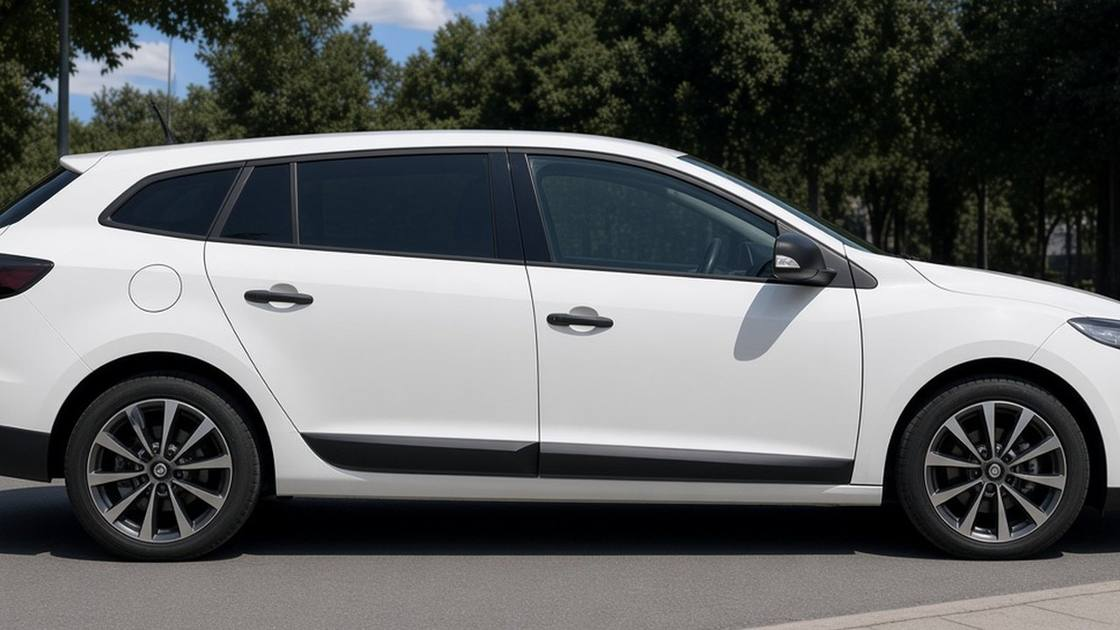
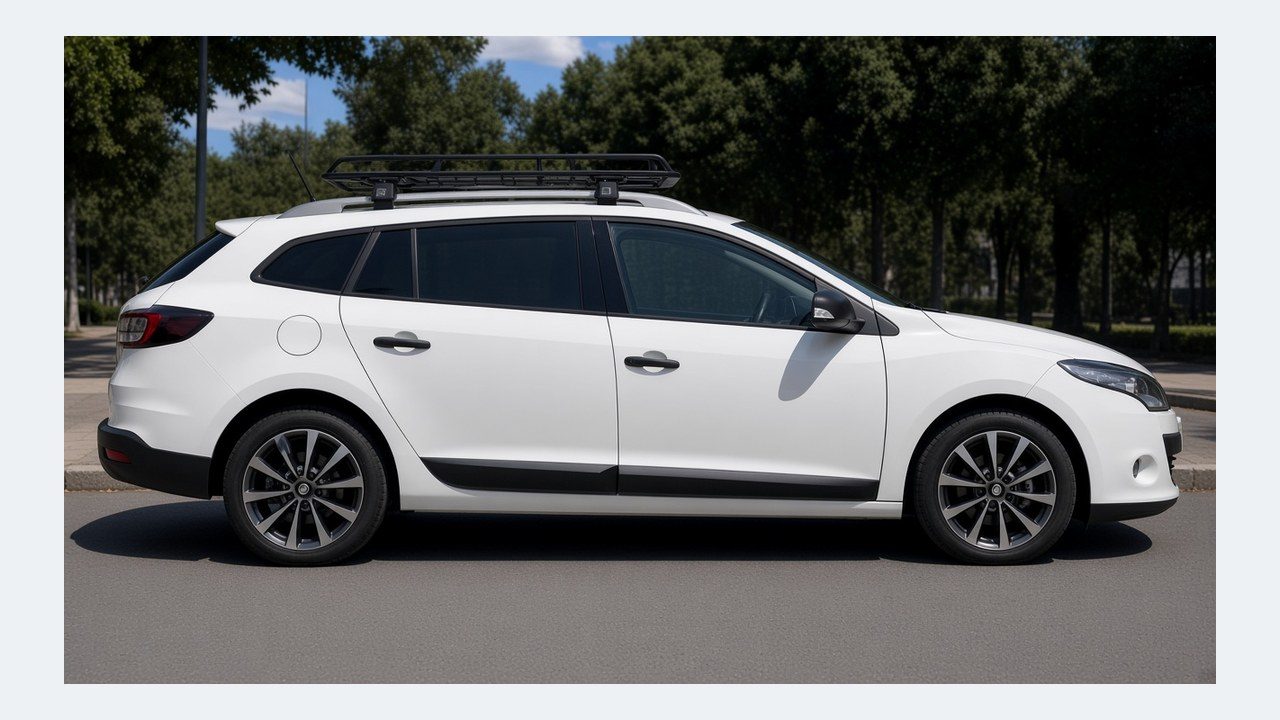
Fix rear-left orbit, show full car, restore roof racks.
Replace the Megane orbit set with rack-equipped frames, correct the left-rear three-quarter slot, and switch the hero photo to object-fit contain with padding so the whole car stays visible.

diff --git a/css/styles.css b/css/styles.css
@@ -221,13 +221,13 @@ body {
   width: 100%;
   height: 100%;
   box-sizing: border-box;
-  padding: 0;
-  /* Letterbox/beyaz kenar yok — cover + scale ile alanı doldur */
-  object-fit: cover;
-  object-position: center 52%;
-  transform: scale(1.22);
+  /* Arabanın tamamı görünsün — cover kırpması yok */
+  padding: 0.45rem 0.55rem;
+  object-fit: contain;
+  object-position: center center;
+  transform: none;
   transform-origin: center center;
-  background: #cfd5d8;
+  background: #eef1f3;
   user-select: none;
   -webkit-user-drag: none;
   pointer-events: none;

diff --git a/js/home.js b/js/home.js
@@ -181,7 +181,7 @@ export function demoState(now = new Date()) {
 }
 
 /** Bump when demo fuel/orbit defaults must replace stale localStorage. */
-export const DEMO_SEED_REV = 3;
+export const DEMO_SEED_REV = 4;
 export const DEMO_SEED_REV_KEY = "aob-demo-seed-rev";
 
 export function maybeSeedDemo(state, persistFn) {
